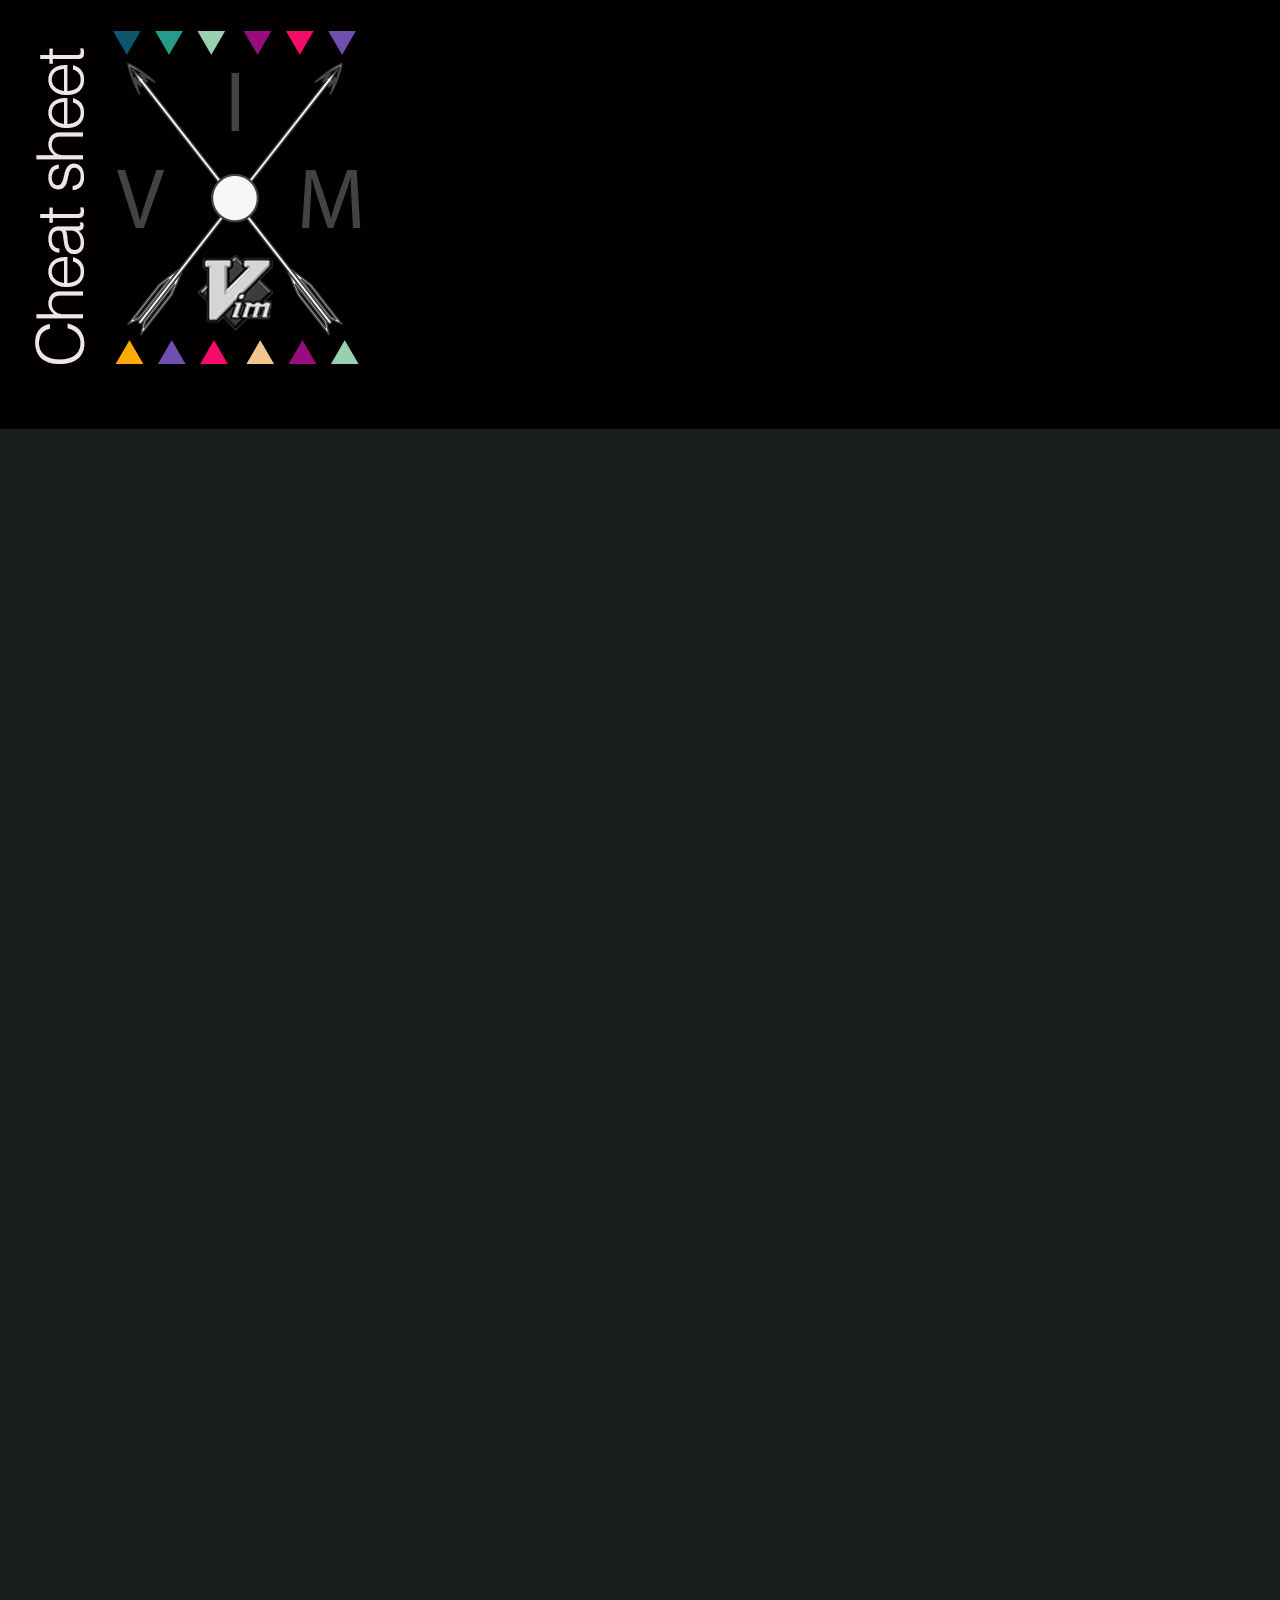
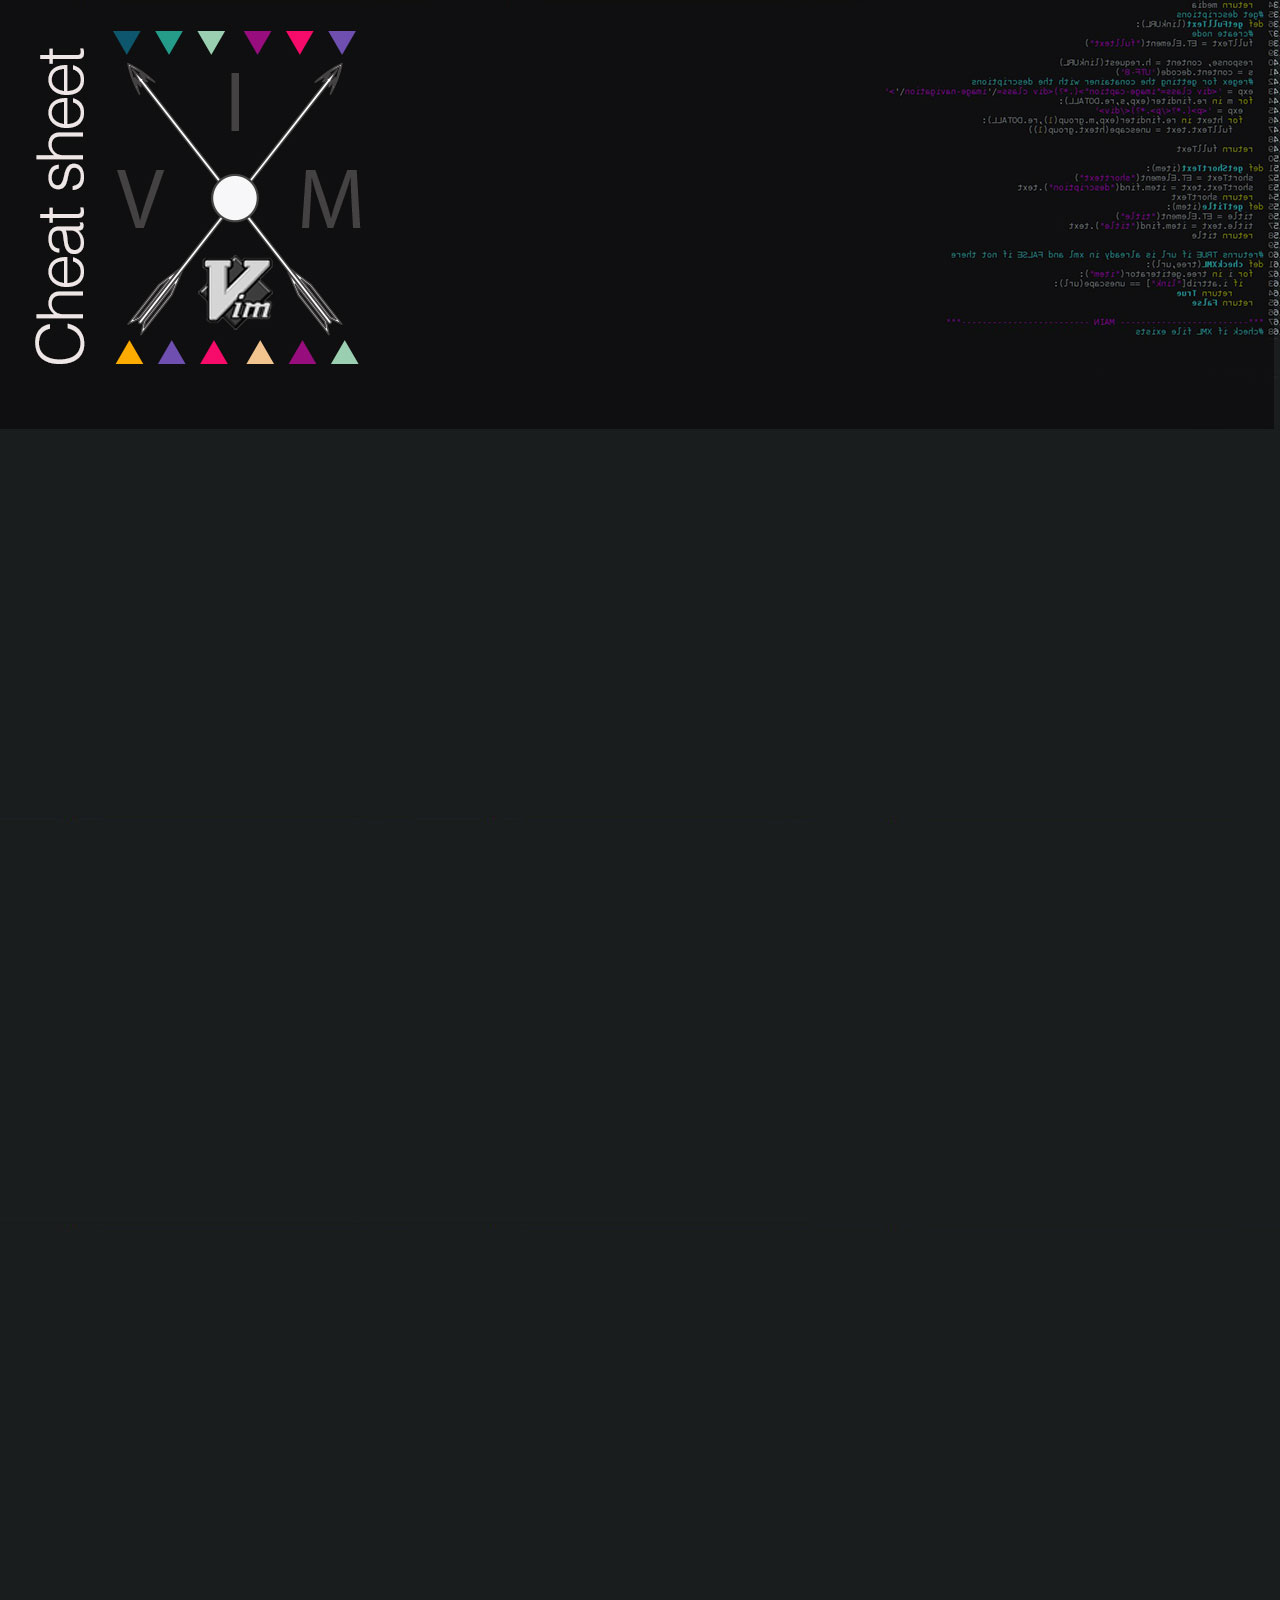
maj police et image de fond

Changed region(s): [[0.7188, 0.0, 1.0, 0.25]]

diff --git a/style.css b/style.css
@@ -91,5 +91,5 @@ li {
 span{
   color: rgb(255, 197, 143);
   font-weight: bold;
-  font-size: 1em;
+  font-size: 2em;
 }
